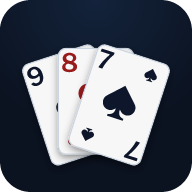
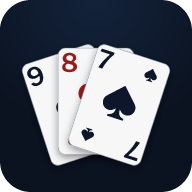
Give overlapping cards a real edge: hairline dark frame, plus a shadow
The card frame was a 2-unit `#cbd5e1` stroke — pale enough that where one
white card covered another (which is most of a cascade) the two faces ran
together, and the only thing marking the seam was a light grey band.

Trade thickness for contrast, and let a shadow do the separating:

- CardArt: the frame stroke drops to a hairline (1 unit) and darkens to
  `#8496ad`. Thin and dark draws a crisper edge than thick and pale did, at
  every card size. Fill and stroke are named rather than inline literals now.
- index.html: `.stacking-card` carries two drop-shadows — a tight contact
  shadow at no offset, which is what separates overlapping faces (a cascade
  fans downward, so the edge you look at is the *top* edge of the covering
  card, and a shadow that only fell below it would be hidden), and a small
  soft drop that lifts the card off the table. Both kept short: a wide blur
  washes over the card beneath instead of drawing its edge.

The generated icons and og-image are re-rendered, since both compose the real
card art. Two comments that described the old stroke — the geometry spec's
note on the painted corner radius, and IconArt's pointer at where the on-screen
shadow lives — are brought up to date.

Claude-Session: https://claude.ai/code/session_01Vxpyccz7CpSG7xqexfHTKo

diff --git a/packages/web-app/index.html b/packages/web-app/index.html
@@ -1872,7 +1872,18 @@
         cursor: grab;
         transform: translateZ(0);
         transition: left 0.18s ease, top 0.18s ease;
-        /* filter: drop-shadow(0 4px 10px rgba(0, 0, 0, 0.4)); */
+        /* Two shadows, because a cascade fans *downward*: each card covers the
+           one before it, so the edge you actually look at is the top edge of the
+           covering card, and a shadow that only falls below it would be hidden
+           under the next card. The first is a tight contact shadow with no
+           offset — it darkens all four edges, which is the one that separates
+           overlapping faces. The second is the drop proper, small and soft, and
+           lifts the card off the table. Kept deliberately short: a big blur
+           spreads across the whole card beneath rather than drawing its edge.
+           The card frame itself is a hairline now (`CardArt.strokeW`) — these
+           carry the separation the thick pale stroke used to attempt. */
+        filter: drop-shadow(0 0 1.5px rgba(15, 23, 42, 0.5))
+          drop-shadow(0 2px 4px rgba(15, 23, 42, 0.45));
       }
 
       /* Each resting card carries a slight, hand-placed tilt (#65), driven by the
